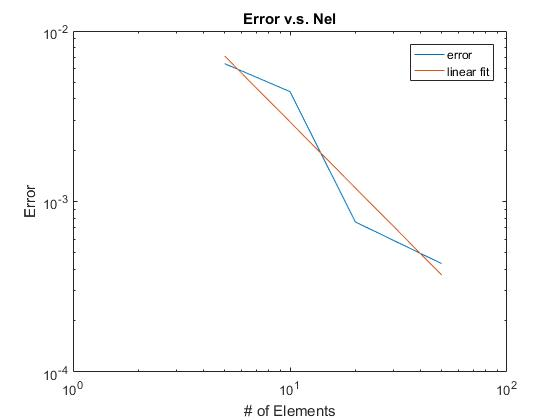
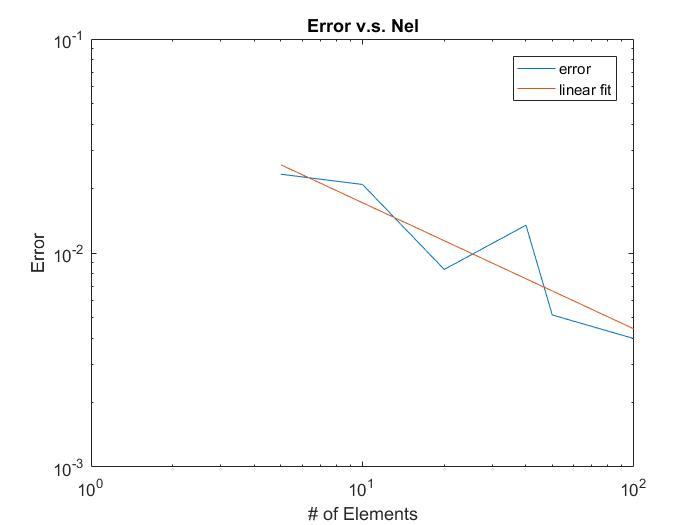
fdm err

diff --git a/ENM_hw5/Liang/plt_err.m b/ENM_hw5/Liang/plt_err.m
@@ -3,34 +3,42 @@ load a.mat;
 err = [];
 
 N = 5;
-step = 100 / N;
-x = (1:N) / N;
-idx = 1 : step : 101;
-c_bar = c100(idx);
-err = [err norm(c5 - c_bar, 2) / 6];
+step = 200 / N;
+idx = 1 : step : 201;
+c_bar = c200(idx);
+err = [err norm(c5 - c_bar, 1) / 6];
 
 N = 10;
-step = 100 / N;
-x = (1:N) / N;
-idx = 1 : step : 101;
-c_bar = c100(idx);
-err = [err norm(c10 - c_bar, 2) / 11];
+step = 200 / N;
+idx = 1 : step : 201;
+c_bar = c200(idx);
+err = [err norm(c10 - c_bar, 1) / 11];
 
 N = 20;
-step = 100 / N;
-x = (1:N) / N;
-idx = 1 : step : 101;
-c_bar = c100(idx);
-err = [err norm(c20 - c_bar, 2) / 21];
+step = 200 / N;
+idx = 1 : step : 201;
+c_bar = c200(idx);
+err = [err norm(c20 - c_bar, 1) / 21];
+
+N = 40;
+step = 200 / N;
+idx = 1 : step : 201;
+c_bar = c200(idx);
+err = [err norm(c40 - c_bar, 1) / 41];
 
 N = 50;
-step = 100 / N;
-x = (1:N) / N;
-idx = 1 : step : 101;
-c_bar = c100(idx);
-err = [err norm(c50 - c_bar, 2) / 51];
+step = 200 / N;
+idx = 1 : step : 201;
+c_bar = c200(idx);
+err = [err norm(c50 - c_bar, 1) / 51];
 
-n = [5, 10, 20, 50];
+N = 100;
+step = 200 / N;
+idx = 1 : step : 201;
+c_bar = c200(idx);
+err = [err norm(c100 - c_bar, 1) / 101];
+
+n = [5, 10, 20, 40, 50, 100];
 loglog(n, err); hold on;
 
 P = polyfit(log(n), log(err), 1);

diff --git a/ENM_hw5/Liang/plt_err_fd.m b/ENM_hw5/Liang/plt_err_fd.m
@@ -1,0 +1,43 @@
+load fd.mat;
+
+err = [];
+
+N = 5;
+step = 100 / N;
+x = (1:N) / N;
+idx = 1 : step : 101;
+c_bar = c100(idx);
+err = [err norm(c5 - c_bar, 1) / 6];
+
+N = 10;
+step = 100 / N;
+x = (1:N) / N;
+idx = 1 : step : 101;
+c_bar = c100(idx);
+err = [err norm(c10 - c_bar, 1) / 11];
+
+N = 20;
+step = 100 / N;
+x = (1:N) / N;
+idx = 1 : step : 101;
+c_bar = c100(idx);
+err = [err norm(c20 - c_bar, 1) / 21];
+
+N = 50;
+step = 100 / N;
+x = (1:N) / N;
+idx = 1 : step : 101;
+c_bar = c100(idx);
+err = [err norm(c50 - c_bar, 1) / 51];
+
+n = [5, 10, 20, 50];
+loglog(n, err); hold on;
+
+P = polyfit(log(n), log(err), 1);
+fit_err = P(1) * log(n) + P(2);
+loglog(n, exp(fit_err)); hold off;
+
+title('Error v.s. Nel')
+xlabel('# of Elements')
+ylabel('Error')
+legend('error', 'linear fit')

diff --git a/ENM_hw5/Liang/fd.m b/ENM_hw5/Liang/fd.m
@@ -1,7 +1,7 @@
 % finite difference method
 
 % define grid
-N = 10;
+N = 100;
 x = (0:N) / N;
 h = 1 / N;
 
@@ -13,7 +13,6 @@ k = 1;
 % set up equations
 A = zeros(N + 1, N + 1);
 c = ones(N + 1, 1);
-% load a.mat c20; c = c20;
 delta_c = ones(N + 1, 1);
 
 for i = 2 : N
@@ -42,8 +41,6 @@ while norm(delta_c, 1) > 1e-6
     % update c
     delta_c = -J \ R;
     c = c + delta_c;
-    plot(x, c);
-    pause(2);
     
     if norm(c, 1) > 1e10
         c = c * 0;
@@ -57,4 +54,4 @@ else
     disp(['Converged. #iterations: ', num2str(num_ites)]);
 end
 
-% plot(x, c);
+plot(x, c);

diff --git a/ENM_hw5/Liang/main.m b/ENM_hw5/Liang/main.m
@@ -1,7 +1,7 @@
 % finite element method
 
 % define element 
-N = 50;
+N = 100;
 x = (0 : N)' / N;
 h = 1 / N;
 
@@ -46,7 +46,7 @@ R = zeros(N + 1, 1);
 delta_c = ones(N, 1);
 num_ites = 0;
 
-while norm(delta_c, 1) > 1e-4
+while norm(delta_c, 1) > 1e-2
     num_ites = num_ites + 1;
     
     % J, R
@@ -99,4 +99,4 @@ else
     disp(['Converged. #iterations: ', num2str(num_ites)]);
 end
 
-% plot(x, c);
+plot(x, c); beep;

diff --git a/ENM_hw5/Liang/plt.m b/ENM_hw5/Liang/plt.m
@@ -2,7 +2,7 @@ load a.mat;
 
 plot((0:20) / 20, c_20);
 
-title('Solution of C (Nel=20)');
+title('Solution of C with FDM (N=100)');
 xlabel('x');
 ylabel('c');
 legend('v=1, D=1, k=1');
